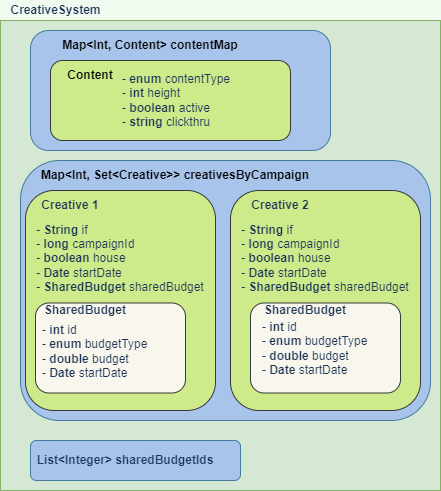
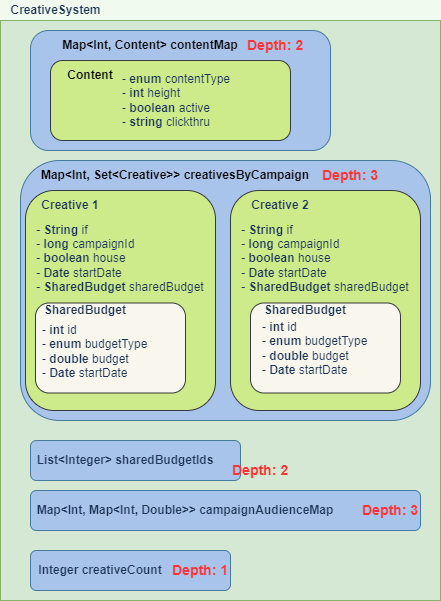
add unclean notes

diff --git a/Serializer.md b/Serializer.md
@@ -226,6 +226,9 @@ Data组织图（以部分CreativeSystem为例）:
 ![dataStructure](UMLs/dataStructure.png)
 
 按照不同的序列化方式，可能会生成以下不同种类的文件  
+| Method | Adv | Disadv | Recommend? |
+| ------ | --- | ------ | ---------- |
+| ser | Adv | Disadv | Recommend? |
 
 - `ser`
   - 方式：把每个data生成一个object, 把所有的object放入一个ser文件
@@ -242,20 +245,8 @@ Data组织图（以部分CreativeSystem为例）:
         ObjectOutputStream oo = new ObjectOutputStream(f);
         oo.writeObject(wObjList);
         ```
-      - Do serializing in recursion: **手动dfs**
-        - 在序列化时，使用`IdentityHashMap`: 只要ID一样，就只能放入map一次 => 避免循环引用导致的多次序列化
-          - 每个system.class维护一个IdentityHashMap, 用于记录该System下的data. How?
-            - 在每个System file新implement一个visitor interface, visitor interface包括
-              - `loadProperty()` => 把`DataTitle`和序列化之后的Obj放入HashMap
-              - `extractProperty()` => 用于反序列化
-            - Adv
-              - 序列化时可以避免循环引用问题
-              - map的方式使用方便，且容易理解
-            - Disadv
-              - Map的存放需要消耗一定的内存
-              - 每个system类都需要单独实现自己的方法 => **或者直接在datasystem中实现这两个方法，用反射 + `getClass().getDeclaredFields()`建立hashmap?**
-        
-        - 对于有引用其他class的set, list, map等，在进入引用的类之前，先创建`DescObject(length, className)`，并进行序列化 => Best?
+      - Do serializing in recursion:        
+        - 对于system中的每个data, 先创建`DescObject(length, type)`，再进行序列化 => 只考虑两层引用
           - 如CreativeSystem中的creativesByCampaign
             ```Java
             CreativeSystem system = getCreativeSystem();
@@ -271,7 +262,22 @@ Data组织图（以部分CreativeSystem为例）:
               }
             }
             ```
+            ```
+            descObject(map<int, content>, 10)
+            mapObject(key = 1, value = content(...))
+            mapObject(key = 2, value = content(...))
 
+            descObject(map<int, set(creative)>, 5)
+            mapObject(key = 3, descObject(set(creative), 2))
+            creative()
+            creative()
+            mapObject(key = 4, descObject(set(creative), 3))
+            creative()
+            creative()
+
+            descObject(list<integer>, 10)
+            [sharedBudgets1, sharedBudgets2 ...]
+            ```
 
         - 每个serializable的class，在序列化的时候都带上className, 便于反序列化使用reflect的时候查找组装class
           - Adv: 序列化的时候比较简单
@@ -301,22 +307,70 @@ Data组织图（以部分CreativeSystem为例）:
     - [How to recursively serialize an object using reflection?](https://stackoverflow.com/questions/2623091/how-to-recursively-serialize-an-object-using-reflection)
 - `Json`
   - 方式：整个system就是一个list of object，一行一个object
-  - write & read方法同上
+    - write & read方法类似ser
+      - M1: 每个data中指明所属class
+        ```Json
+        {
+          "fieldName": "contentMap",
+        }
+        ```
+      - M2: 在第一层的data前增加desc部分，说明该段数据所属class,类型，长度
   - Adv
     - 明文
-    - （其他方面和ser差不多）
+    - ？
   - Disadv
     - 明文，可能会被篡改? (.ser似乎也是？需要进行校验)
     - 不保留原数据格式，如long, int不分
-
-- `Protobuf`
-  - 
+  - Object -> JSON 库
+    - `Jackson`
+    - `Gson`
+    - `FastJson`
 - 不合适：
   - `Sqlite`: Data没有固定结构，不适合用表来存储，但如果不考虑一个表只有一行数据，且一个system按data的个数分表的影响，sqlite应该还是比较合适的
   - `csv`: data没有统一结构
   - `XML`: 文件大小、可读性不如Json
+  - `Protobuf`
+    - 方式：先在proto文件中定义数据格式, 一个object = 一个message
+      - write:
+        - 怎么把一个system class中的成员变量分别序列化？
+          - 对于引用其他class的object, protobuf支持nested class, 但也需要自己定义
+          - M1: 一个data一个message => .proto文件会比较零碎
+        - 怎么把多个序列化后的object写入一个文件？=> Supported
+      - read
+        - 怎么把多个object从一个文件一个一个的读出来？=> Supported
+        - 怎么把object和class挂载？=> auto
+    - Adv
+      - protobuf会自动识别数据类型和对应的class
+      - 序列化后的大小是json的十分之一，xml的二十分之一，二进制的十分之一
+    - Disadv
+      - 需要引入第三方包
+      - 不太适合按行序列化
+      - system之后每做一次改动，都需要更改相应的protobuf文件
+    - 参考资料：
+      - [Protocol Buffers](https://developers.google.com/protocol-buffers/docs/javatutorial)
+  - `thrift`
+    - 性能类似protobuf
+    - 和protobuf比的优势在提供全套RPC解决方案上，不是java-java communication
 
 
 ### Old data vs. New data
 - 按数据类型分别处理
+
+## Run
+- Restore database:
+  - Enter local sql folder 
+    - `docker cp promote-prod.sql serializer_docker-prod_1:/`
+    - `docker cp promote-prod-rpt.sql serializer_docker-prod_1:/`
+  - Load data into database (in container)
+    - `mysql -u docker -pdocker -Dpromote-prod-rpt < promote-prod-rpt.sql`
+    - `mysql -u docker -pdocker -Dpromote-prod < promote-prod.sql`
+- Start docker
+  - `docker start e3d3724111e3`
+  - `docker exec -it e3d3724111e3 /bin/bash`
+- Start mysql in container
+  - `mysql -u docker -p` docker
+
+- PlacementTarget
+
+
 

diff --git a/Serializer_investigation.md b/Serializer_investigation.md
@@ -1,0 +1,61 @@
+# Investigation on serializer & reload
+
+## Serialize
+
+### TargetValueSystem - 5924KB
+  | Method      | Runtime | Memory usage | Size of file |
+  | ----------- | ------- | ------------ | ------------ |
+  | Original    | --      | --           | --           |
+  | Depth two   | --      | --           | --           |
+  | Depth three | --      | --           | --           |
+
+### SlotSystem - 9KB
+
+  | Method      | Runtime | Memory usage | Size of file |
+  | ----------- | ------- | ------------ | ------------ |
+  | Original    | --      | --           | --           |
+  | Depth two   | --      | --           | --           |
+  | Depth three | --      | --           | --           |
+
+### TemplateSystem - 9KB
+| Method      | Runtime | Memory usage | Size of file |
+| ----------- | ------- | ------------ | ------------ |
+| Original    | --      | --           | --           |
+| Depth two   | --      | --           | --           |
+| Depth three | --      | --           | --           |
+
+## Deserialize
+
+### TargetValueSystem - 5924KB
+  | Method      | Runtime | Memory usage |
+  | ----------- | ------- | ------------ |
+  | Original    | 1687 ms | --           |
+  | Depth two   | --      | --           |
+  | Depth three | --      | --           |
+
+### SlotSystem - 9KB
+| Method      | Runtime | Memory usage |
+| ----------- | ------- | ------------ |
+| Original    | 130ms   | --           |
+| Depth two   | --      | --           |
+| Depth three | --      | --           |
+
+### TemplateSystem - 9KB
+| Method      | Runtime | Memory usage |
+| ----------- | ------- | ------------ |
+| Original    | 4ms     | --           |
+| Depth two   | --      | --           |
+| Depth three | --      | --           |
+
+
+| system            | with Gzip | no Gzip | 原本   |
+| ----------------- | --------- | ------- | ------ |
+| TargetValueSystem | 12Mb      | 67Mb    | 5924Kb |
+| SlotSystem        | 12Kb      | 86Kb    | 9Kb    |
+| TemplateSystem    | 67M       | 42Kb    | 9Kb    |
+
+| system            | with Gzip | no Gzip | 原本 with Gzip | 原本 without Gzip |
+| ----------------- | --------- | ------- | -------------- | ----------------- |
+| TargetValueSystem | 1678ms    | 1577ms  | 2467ms         | 2401ms            |
+| SlotSystem        | 42ms      | 38 - 50ms    | 15ms           |     16ms              |
+| TemplateSystem    | 24ms      | 30ms    | 5ms            | 6ms               |

diff --git a/MS_life.md b/MS_life.md
@@ -51,3 +51,11 @@
 
 ### Day 8 - WK2
 - 思考可行的解决方式 & 整理可行的方案
+
+### Day 9 - WK2
+- 思考可行的解决方式 & 整理可行的方案
+- 补充design文档
+
+### WK2
+- 写serialize design doc & 代码
+
